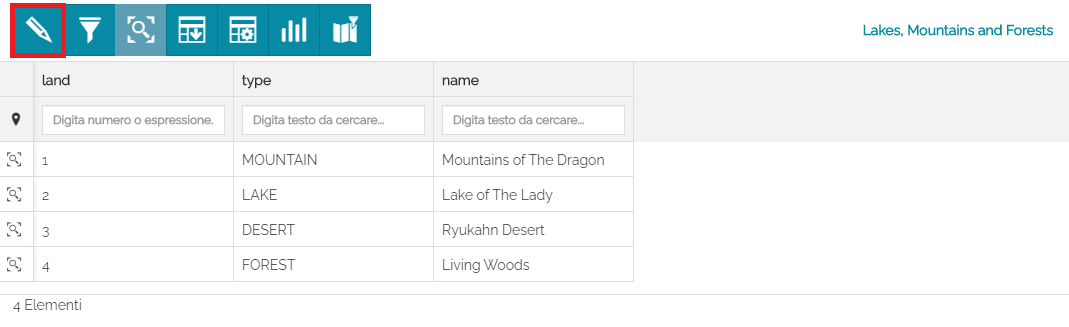
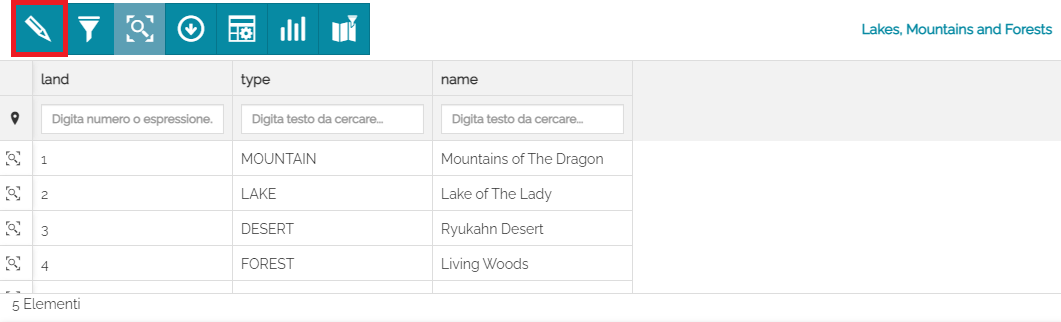
second review

diff --git a/docs/user-guide/attributes-table.md b/docs/user-guide/attributes-table.md
@@ -18,7 +18,7 @@ Accessing this panel the user can perform the following main operations:
 
 * Using the [quick filter by attribute](filtering-layers.md#quick-filter-by-attributes)
 
-* Download the grid data through the <img src="../img/button/download_attribute_table.jpg" class="ms-docbutton"/> button 
+* Download the grid data through the <img src="../img/button/export_data.jpg" class="ms-docbutton"/> button 
 
 * Customize the attribute table display through the <img src="../img/button/customize_attribute_table.jpg" class="ms-docbutton"/> button
 
